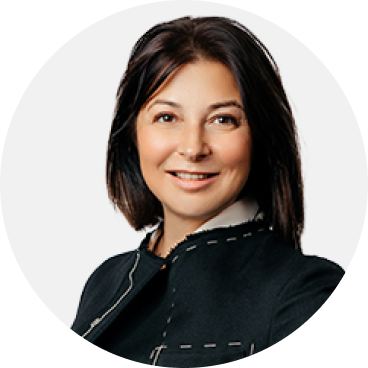
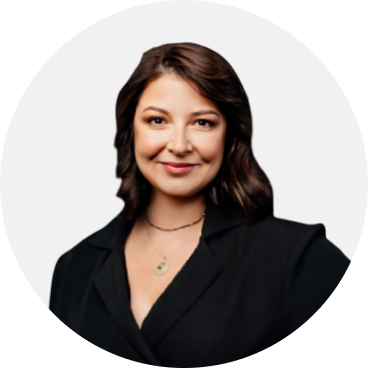
обновление фото Никитиной

diff --git a/branch/template3.html b/branch/template3.html
@@ -15,7 +15,7 @@
     <tbody>
       <tr>
         <td>
-          <div style="display: none; max-height: 0px; overflow: hidden;">Благодарим вас за участие в Офисном бранче CMWP!</div>
+          <div style="display: none; max-height: 0px; overflow: hidden;">Мы ценим ваше мнение и признательны за вашу помощь!</div>
 
           <div style="display: none; max-height: 0px; overflow: hidden;">&nbsp;&zwnj;&nbsp;&zwnj;&nbsp;&zwnj;&nbsp;&zwnj;&nbsp;&zwnj;&nbsp;&zwnj;&nbsp;&zwnj;&nbsp;&zwnj;&nbsp;&zwnj;&nbsp;&zwnj;&nbsp;&zwnj;&nbsp;&zwnj;&nbsp;&zwnj;&nbsp;&nbsp;&zwnj;&nbsp;&zwnj;&nbsp;&zwnj;&nbsp;&zwnj;&nbsp;&zwnj;&nbsp;&zwnj;&nbsp;&zwnj;&nbsp;&zwnj;&nbsp;&zwnj;&nbsp;&zwnj;&nbsp;&zwnj;&nbsp;&zwnj;&nbsp;&zwnj;&nbsp;&nbsp;&zwnj;&nbsp;&zwnj;&nbsp;&zwnj;&nbsp;&zwnj;&nbsp;&zwnj;&nbsp;&zwnj;&nbsp;&zwnj;&nbsp;&zwnj;&nbsp;&zwnj;&nbsp;&zwnj;&nbsp;&zwnj;&nbsp;&zwnj;&nbsp;&zwnj;&nbsp;&nbsp;&zwnj;&nbsp;&zwnj;&nbsp;&zwnj;&nbsp;&zwnj;&nbsp;&zwnj;&nbsp;&zwnj;&nbsp;&zwnj;&nbsp;&zwnj;&nbsp;&zwnj;&nbsp;&zwnj;&nbsp;&zwnj;&nbsp;&zwnj;&nbsp;&zwnj;&nbsp;&nbsp;&zwnj;&nbsp;&zwnj;&nbsp;&zwnj;&nbsp;&zwnj;&nbsp;&zwnj;&nbsp;&zwnj;&nbsp;&zwnj;&nbsp;&zwnj;&nbsp;&zwnj;&nbsp;&zwnj;&nbsp;&zwnj;&nbsp;&zwnj;&nbsp;&zwnj;&nbsp;&nbsp;&zwnj;&nbsp;&zwnj;&nbsp;&zwnj;&nbsp;&zwnj;&nbsp;&zwnj;&nbsp;&zwnj;&nbsp;&zwnj;&nbsp;&zwnj;&nbsp;&zwnj;&nbsp;&zwnj;&nbsp;&zwnj;&nbsp;&zwnj;&nbsp;&zwnj;&nbsp;&nbsp;&zwnj;&nbsp;&zwnj;&nbsp;&zwnj;&nbsp;&zwnj;&nbsp;&zwnj;&nbsp;&zwnj;&nbsp;&zwnj;&nbsp;&zwnj;&nbsp;&zwnj;&nbsp;&zwnj;&nbsp;&zwnj;&nbsp;&zwnj;&nbsp;&zwnj;&nbsp;&nbsp;&zwnj;&nbsp;&zwnj;&nbsp;&zwnj;&nbsp;&zwnj;&nbsp;&zwnj;&nbsp;&zwnj;&nbsp;&zwnj;&nbsp;&zwnj;&nbsp;&zwnj;&nbsp;&zwnj;&nbsp;&zwnj;&nbsp;&zwnj;&nbsp;&zwnj;&nbsp;</div>
 
@@ -66,7 +66,7 @@
                                 Благодарим вас за участие в Офисном бранче CMWP!<br><br>
                                 Мы были рады обсудить с вами перспективы развития Большого Сити.<br>В течение 5 дней мы направим все материалы на вашу электронную почту.
                                 <br><br>
-                                🖊Сейчас мы нуждаемся в вашем мнении! Пожалуйста, уделите несколько минут и ответьте на 5 коротких вопросов по ссылке ниже. Ваши отзывы помогут нам делать наши мероприятия лучше, еще более полезными и интересными для вас. Все ответы анонимны. 
+                                🖊Сейчас мы нуждаемся в вашем мнении! Пожалуйста, уделите несколько минут и ответьте на 5 коротких вопросов по ссылке ниже. Ваши отзывы помогут нам делать наши мероприятия лучше, еще более полезными и интересными для вас.<br>Все ответы анонимны. 
                               
                                 </span>
                             </td>
